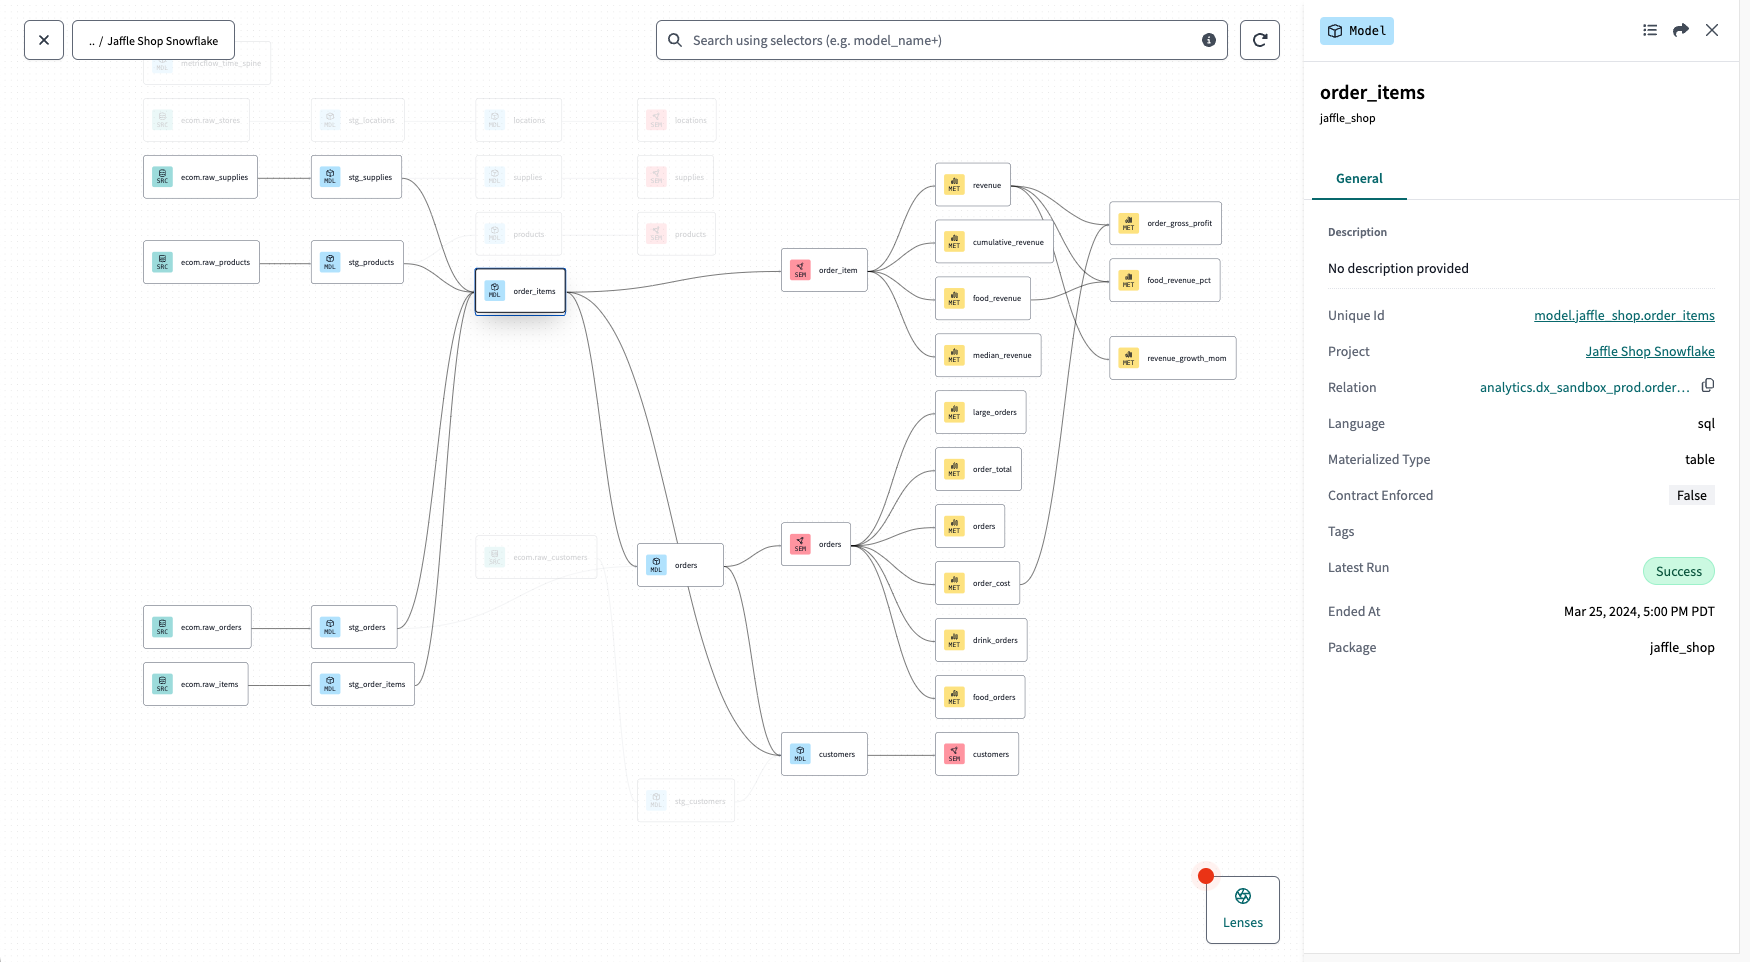
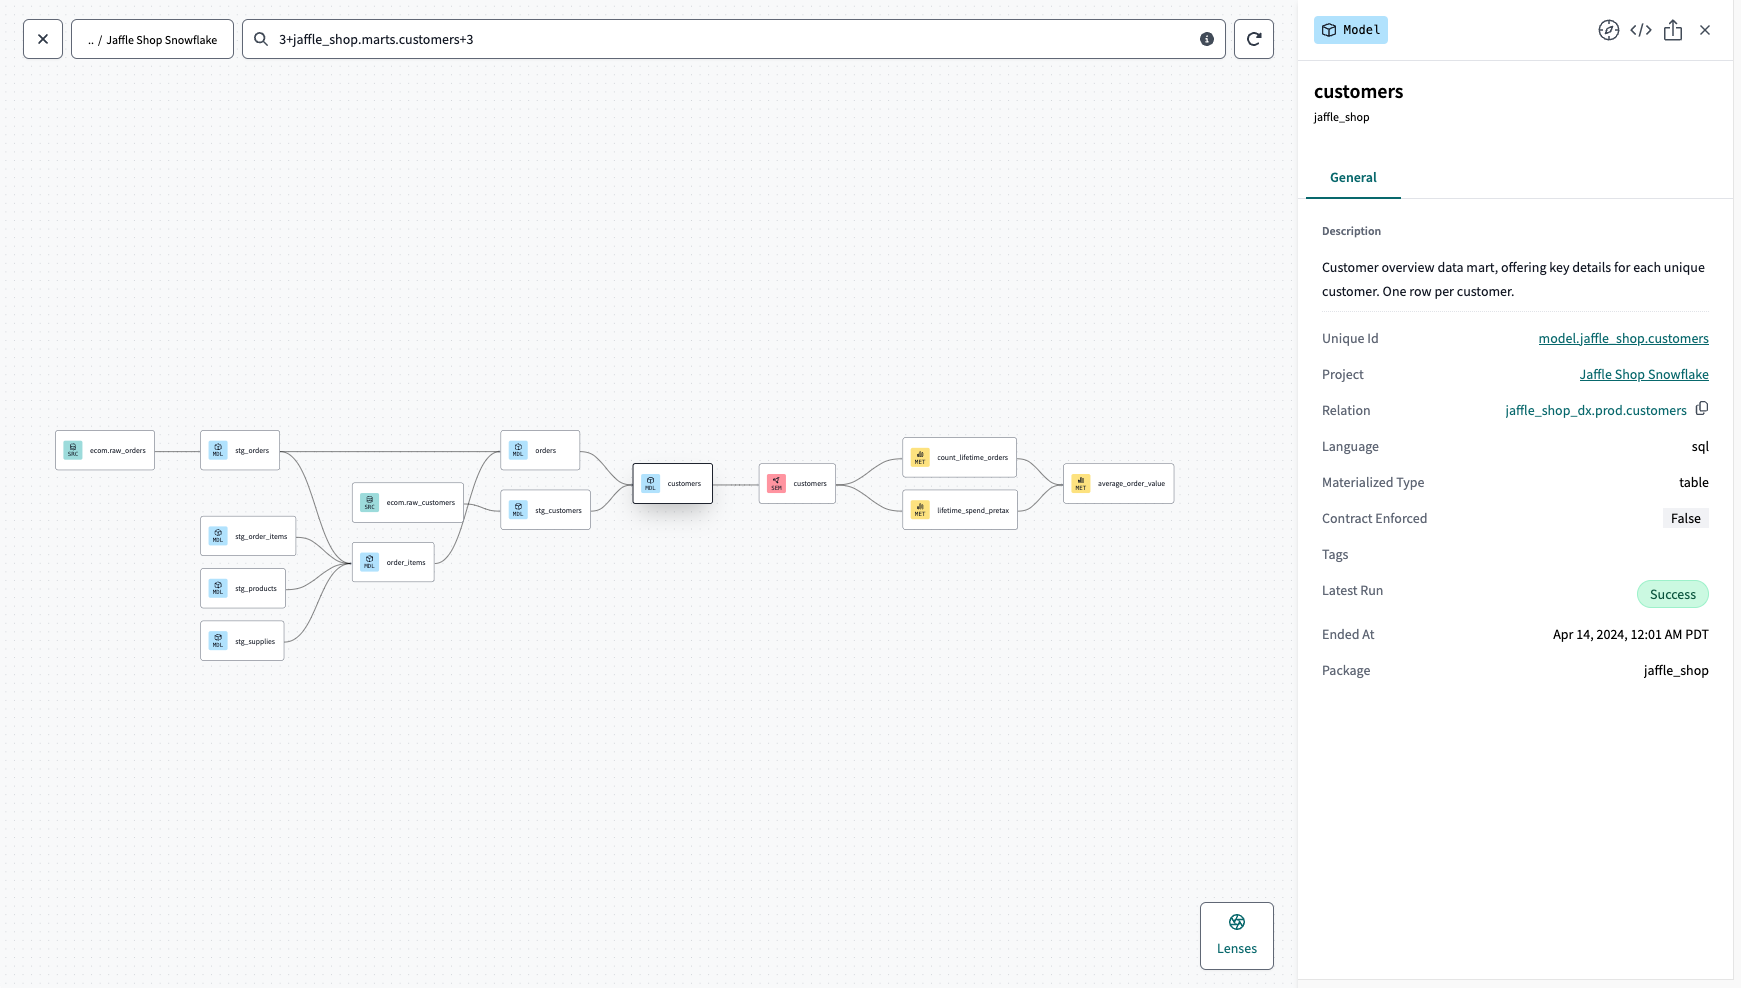
Explorer: open in IDE feature

diff --git a/website/docs/docs/collaborate/explore-projects.md b/website/docs/docs/collaborate/explore-projects.md
@@ -57,9 +57,10 @@ To explore the lineage graphs of tests and macros, view [their resource details 
     - Refocus on the node and its downstream nodes only
     - Refocus on the node and it upstream nodes only
     - View the node's [resource details](#view-resource-details) page
-- Select a resource to highlight its relationship with other resources in your project. A panel opens on the graph’s right-hand side that displays a high-level summary of the resource’s details. The side panel includes a **General** tab for information like description, materialized type, and other details.
-    - Click the Share icon in the side panel to copy the graph’s link to your clipboard.
-    - Click the View Resource icon in the side panel to [view the resource details](#view-resource-details). 
+- Select a resource to highlight its relationship with other resources in your project. A panel opens on the graph’s right-hand side that displays a high-level summary of the resource’s details. The side panel includes a **General** tab for information like description, materialized type, and other details. In the side panel's upper right corner:
+    - Click the View Resource icon to [view the resource details](#view-resource-details). 
+    - Click the [Open in IDE](#open-in-ide) icon to examine the resource using the [dbt Cloud IDE](/docs/cloud/dbt-cloud-ide/develop-in-the-cloud).
+    - Click the Copy Link to Page icon to copy the page's link to your clipboard.
 - Use [selectors](/reference/node-selection/methods) (in the search bar) to select specific resources or a subset of the DAG. This can help narrow the focus on the resources that interest you. All selectors are available for use, except those requiring a state comparison (result, source status, and state). You can also use the `--exclude` and the `--select` flag (which is optional). Examples:
     - `resource_type:model [RESOURCE_NAME]` &mdash; Returns all models matching the name search
     - `resource_type:metric,tag:nightly` &mdash; Returns metrics with the tag `nightly`
@@ -70,11 +71,11 @@ To explore the lineage graphs of tests and macros, view [their resource details 
     - `+snowplow_sessions +fct_orders` &mdash; Use space-delineated arguments for a union operation. Returns resources that are upstream nodes of either `snowplow_sessions` or `fct_orders`.
 
 - [View resource details](#view-resource-details) by selecting a node (double-clicking) in the graph.
-- Click the List view icon in the graph's upper right corner to return to the main **Explore** page. 
+- Click **Lenses** (lower right corner of the graph) to use Explorer's [lenses](#lenses) feature. 
 
 </expandable>
 
-### Example of lineage graph
+### Example of full lineage graph
 
 Example of exploring the `order_items` model in the project's lineage graph:
 
@@ -147,7 +148,16 @@ From the sidebar, you can browse your project's resources, its file tree, and th
 - **File Tree** tab &mdash; All resources in the project organized by the file in which they are defined. This mirrors the file tree in your dbt project repository.
 - **Database** tab &mdash; All resources in the project organized by the database and schema in which they are built. This mirrors your data platform's structure that represents the [applied state](/docs/dbt-cloud-apis/project-state) of your project. 
 
-<Lightbox src="/img/docs/collaborate/dbt-explorer/example-search-sidebar.png" title="Example of tabs in sidebar" />
+<Lightbox src="/img/docs/collaborate/dbt-explorer/example-tabs-sidebar.png" title="Example of tabs in sidebar" />
+
+## Open in IDE
+
+If you have been assigned to a [developer license](/docs/cloud/manage-access/about-user-access#license-based-access-control), you can open the resource source file in the [IDE]((/docs/cloud/dbt-cloud-ide/develop-in-the-cloud)) directly from Explorer. This feature is available from the [full lineage graph](#example-of-full-lineage-graph) and the [resource's details view](#example-of-model-details). 
+
+
+Example of the Open in IDE icon in the upper right corner of the resource details page. The icon is inactive (grayed out) if you haven't been assigned a developer license.  
+<Lightbox src="/img/docs/collaborate/dbt-explorer/example-open-in-ide-icon.png" title="Example of icon for Open in IDE" />
+
 
 ## View model versions
 
@@ -157,6 +167,10 @@ If models in the project are versioned, you can see which [version of the model]
 You can view the definition and latest run results of any resource in your project. To find a resource and view its details, you can interact with the lineage graph, use search, or browse the catalog. 
 
 The details (metadata) available to you depends on the resource’s type, its definition, and the [commands](/docs/deploy/job-commands) that run within jobs in the production environment. 
+
+In the upper right corner of the resource details page, you can:
+- Click the [Open in IDE](#open-in-ide) icon to examine the resource using the [dbt Cloud IDE](/docs/cloud/dbt-cloud-ide/develop-in-the-cloud).
+- Click the Share icon to copy the page's link to your clipboard.
 
 <expandable alt_header="What details are available for a model?">
 
